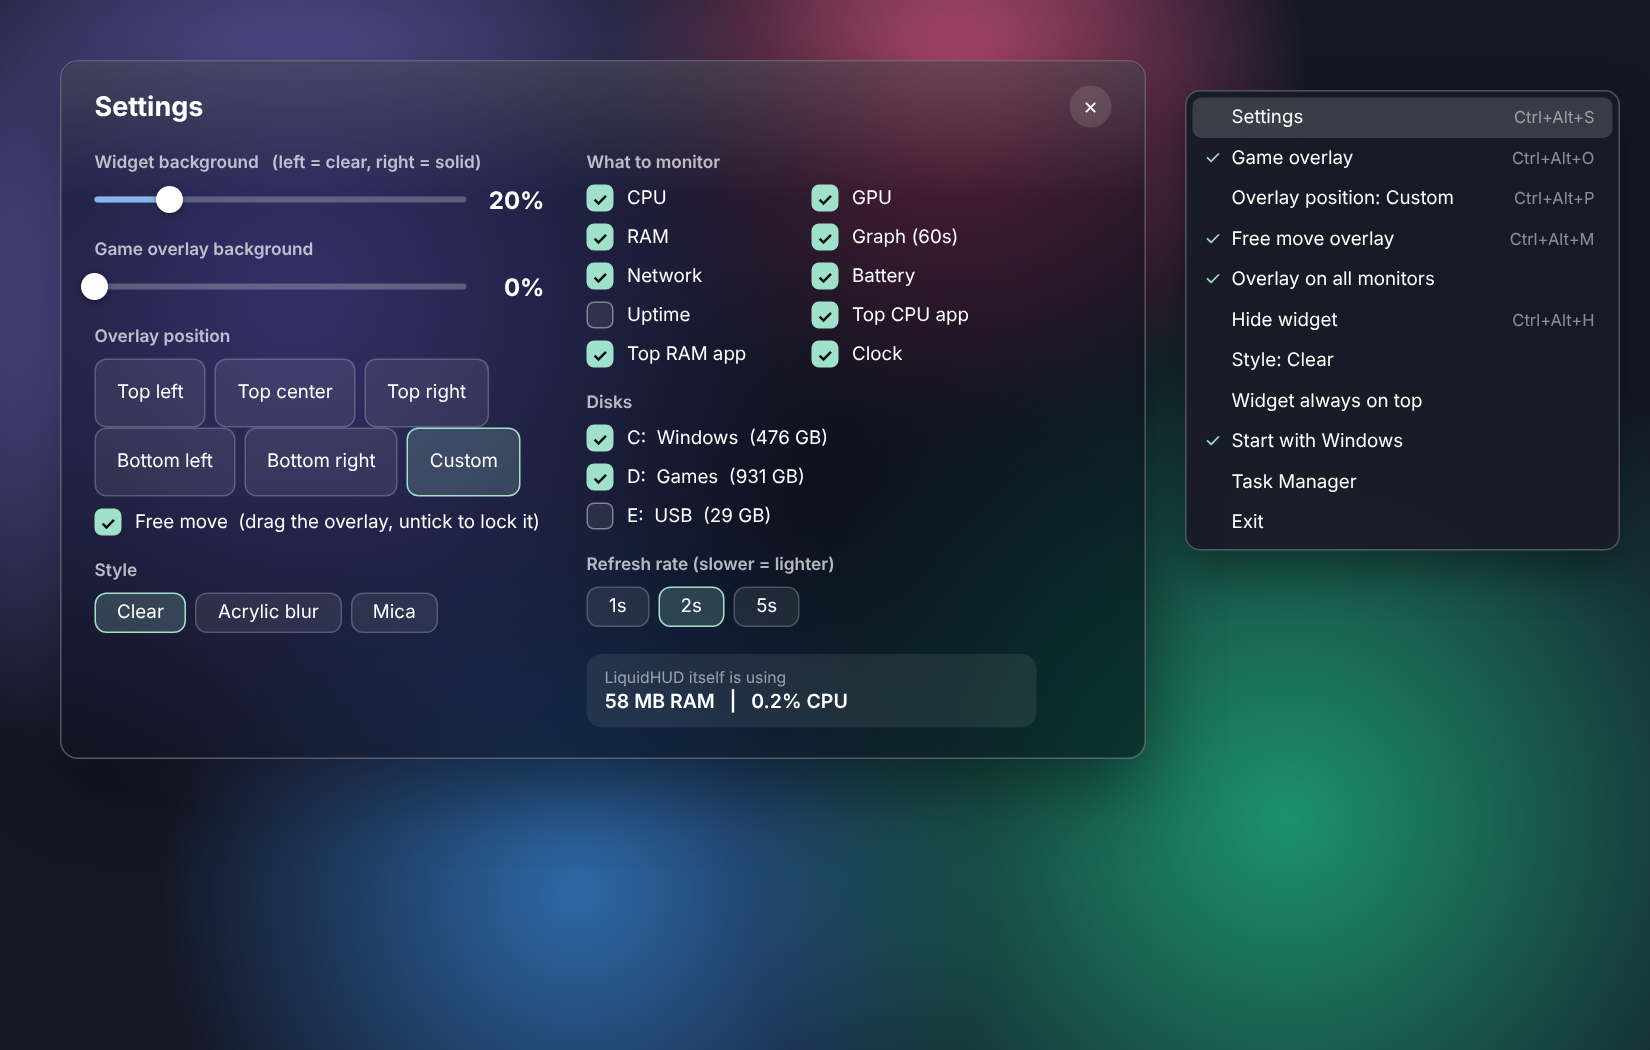
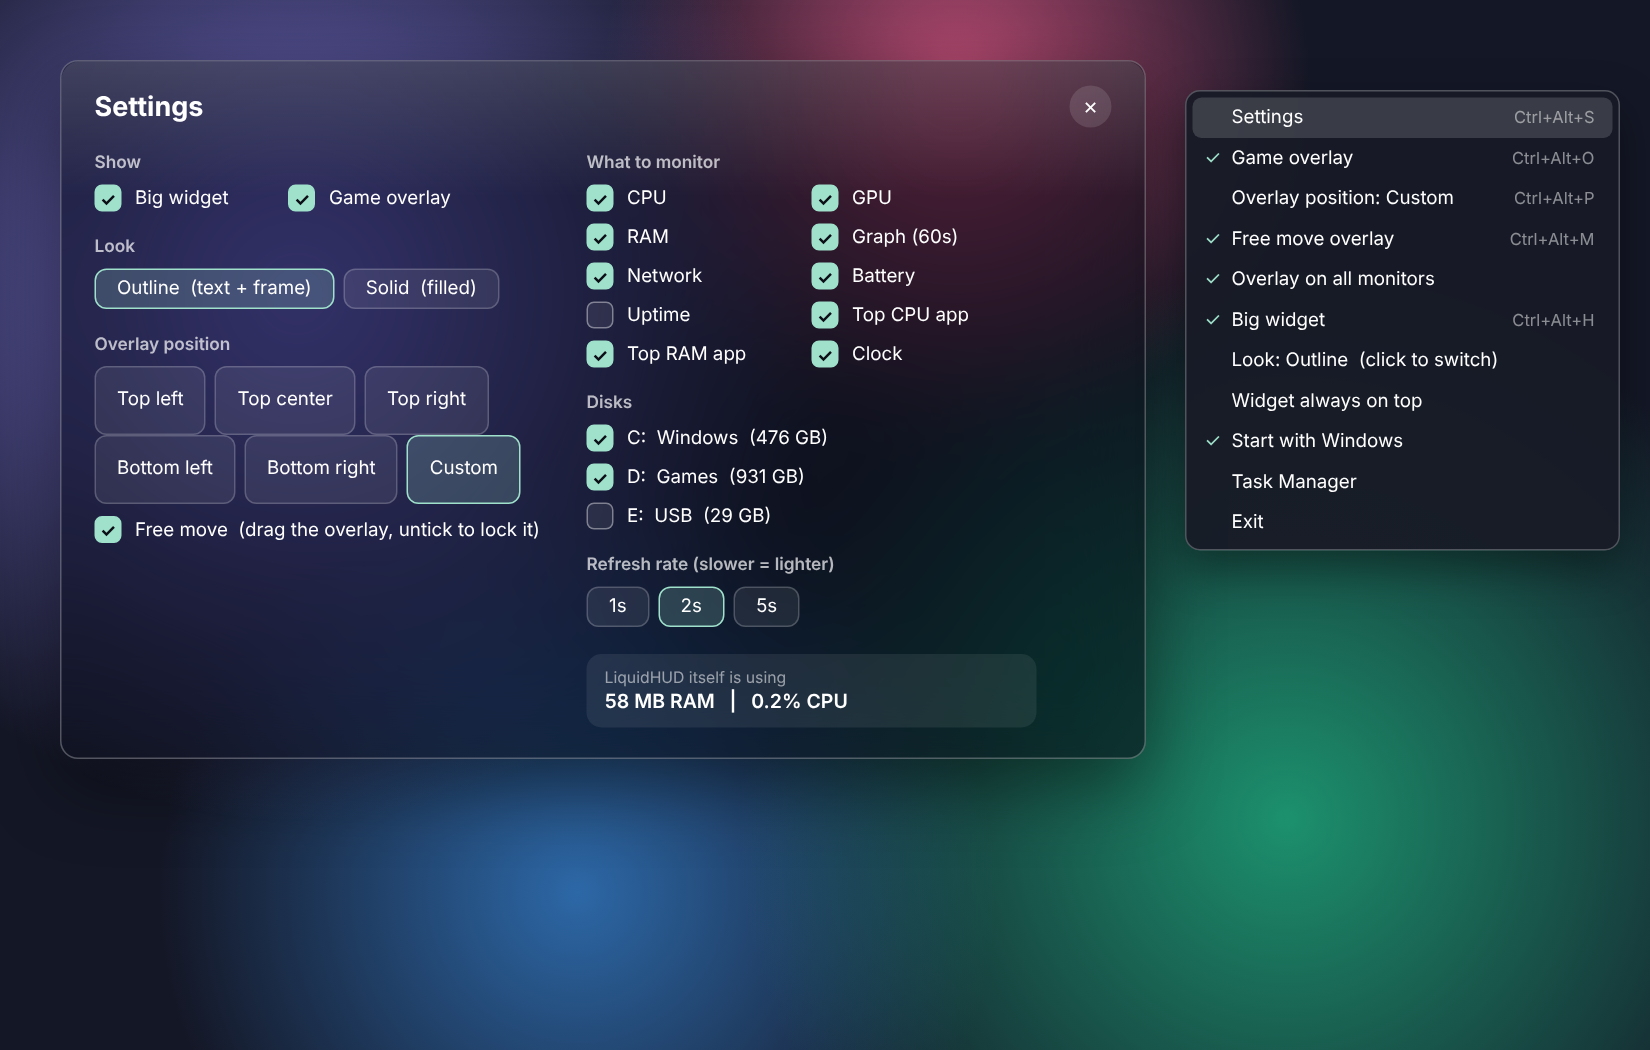
Docs: README and preview images for v7
- New images: Outline vs Solid looks, overlay free-moved out of the
  browser tab strip, Settings with Show / Look
- Removed opacity/style docs, added changelog linking issues #1-#7

Claude-Session: https://claude.ai/code/session_01RP7FEh2wzL7y17a24F9dcJ

Changed region(s): [[0.0309, 0.3657, 0.34, 0.6095], [0.0309, 0.1524, 0.34, 0.3352], [0.7418, 0.2743, 0.8964, 0.3657]]

diff --git a/README.md b/README.md
@@ -1,11 +1,11 @@
 # LiquidHUD
 
-**A glass-style system monitor widget and game overlay for Windows, built from scratch with nothing but PowerShell and WPF.**
+**A see-through system monitor widget and game overlay for Windows, built from scratch with nothing but PowerShell and WPF.**
 No Rainmeter, no HWiNFO, no installer, no admin rights. One `.ps1` file.
 
-![LiquidHUD on the desktop: glass widget plus the overlay bar in the top-right corner](docs/images/hero.png)
+![LiquidHUD on the desktop: widget and overlay bar in the Outline look](docs/images/hero.png)
 
-> Images in this README are rendered previews of the UI. Your glass will blur whatever wallpaper you have.
+> Images in this README are rendered previews of the UI.
 
 ---
 
@@ -15,22 +15,22 @@ No Rainmeter, no HWiNFO, no installer, no admin rights. One `.ps1` file.
 |---|---|
 | **Live stats** | CPU, GPU, RAM, **every disk in your PC**, network up/down, battery, uptime, top CPU app, top RAM app, clock |
 | **60-second graph** | CPU and GPU history |
-| **Clear or glass** | *Clear* gives real see-through transparency down to 0 %. *Acrylic* and *Mica* give the Windows 11 blur |
+| **Two looks** | **Outline** (text + frame, see straight through) or **Solid** (filled + frame), for both the widget and the overlay |
+| **Pick what's on screen** | Big widget, game overlay, or both |
 | **Game overlay** | Thin click-through bar that stays on top of every app, on every monitor |
 | **Global hotkeys** | Work while you're in a game |
-| **Background sliders** | One for the widget, one for the overlay. At 0 % the widget keeps the text plus a faint ghost of its box, and the overlay keeps only the text, with a shadow so it stays readable |
 | **Pin or free-move the overlay** | Pin it to any corner or the top center, or drag it anywhere and lock it there |
 | **Pick your metrics** | Tick what you want to see. Unticked metrics aren't collected at all |
 | **Lightweight** | Runs at BelowNormal priority with a 2 s refresh and periodic memory trim |
 | **Status pill** | Shows `chill` below 40 % CPU, `busy` from 40–85 %, and `hot!` above 85 % (numbers also turn red) |
 
-<p align="center"><img src="docs/images/widget.png" width="300" alt="Widget with CPU at 91% showing the hot! status"></p>
+![Outline look vs Solid look, widget and overlay](docs/images/looks.png)
 
 ---
 
 ## Requirements
 
-- **Windows 10 or 11.** Windows 11 22H2 or newer gets the real blur. Older versions get a dark glass look without blur.
+- **Windows 10 or 11.**
 - **Windows PowerShell 5.1.** It's already built into Windows, so you don't need to install anything.
 
 ---
@@ -95,17 +95,15 @@ powershell -NoProfile -STA -ExecutionPolicy Bypass -File .\LiquidHUD.ps1
 
 | Setting | What it does |
 |---|---|
-| **Widget background** | 0 % keeps the text and a faint outline of the box. Slide right and the box fades in until it's solid at 100 % |
-| **Game overlay background** | 0 % is text only, 100 % is a solid bar |
+| **Show** | Tick **Big widget** and/or **Game overlay**. If both are off, press `Ctrl+Alt+S` to come back |
+| **Look** | **Outline**: text and a frame only, you see straight through to what's behind. **Solid**: text on a fully coloured background with a frame |
 | **Overlay position** | Top left, Top center, Top right, Bottom left, Bottom right, or Custom (where you last dropped it) |
 | **Free move** | Tick it, then drag the overlay anywhere (it gets a dashed outline). Untick it and the overlay locks in place and goes back to click-through, so it never blocks what's behind it |
 | **Disks** | Every ready fixed or removable drive is listed with its label and size. Tick the ones you want on the widget. New drives show up the next time you open Settings |
-| **Style** | **Clear** (default) gives real transparency. **Acrylic blur** and **Mica** give the Windows 11 frosted glass. Blur always keeps some grey tint, so use Clear if you want it fully see-through |
 | **What to monitor** | Tick a metric to show and collect it. Untick it to hide it and stop collecting it |
 | **Refresh rate** | 1 s, 2 s or 5 s. Slower uses less CPU |
 | **LiquidHUD itself is using** | Live RAM and CPU used by the widget itself |
 
-![Clear style with the background at 0%, 45% and 100%](docs/images/opacity.png)
 
 Settings are saved to `%APPDATA%\LiquidHUD\settings.json`.
 
@@ -113,12 +111,13 @@ Settings are saved to `%APPDATA%\LiquidHUD\settings.json`.
 
 ## Game overlay
 
-![Overlay bar on top of a game](docs/images/overlay.png)
+![Outline overlay free-moved under the browser's address bar](docs/images/browser.png)
 
 1. Press **`Ctrl+Alt+O`** to turn the overlay on.
 2. Press **`Ctrl+Alt+P`** to cycle its pinned position: top left, top center, top right, bottom left, bottom right, custom.
    - **Or put it anywhere:** press **`Ctrl+Alt+M`** (or tick **Free move** in Settings), drag the bar where you want it, then press `Ctrl+Alt+M` again to lock it. Its spot is saved as a fraction of the screen, so it lands in the same place on every monitor.
-3. Press **`Ctrl+Alt+H`** to hide the big widget so only the overlay stays.
+3. Press **`Ctrl+Alt+H`** to turn the big widget off so only the overlay stays (or untick **Big widget** in Settings).
+4. If the bar sits over something you need to see, like browser tabs, use the **Outline** look and/or **Free move** it out of the way.
 
 When it's locked, the overlay is **click-through**: your mouse goes straight to the game, and it never steals focus or shows up in Alt+Tab.
 
@@ -136,7 +135,7 @@ When it's locked, the overlay is **click-through**: your mouse goes straight to 
 | `Ctrl+Alt+O` | Toggle game overlay |
 | `Ctrl+Alt+P` | Cycle overlay position |
 | `Ctrl+Alt+M` | Free move overlay on/off (drag it, then press again to lock) |
-| `Ctrl+Alt+H` | Hide / show widget |
+| `Ctrl+Alt+H` | Big widget on/off |
 | Double-click widget | Open Task Manager |
 | Right-click widget | Menu |
 
@@ -150,7 +149,7 @@ When it's locked, the overlay is **click-through**: your mouse goes straight to 
 |  BelowNormal priority        |  ---------------------->  |  DispatcherTimer        |
 |                              |                           |                         |
 |  PerformanceCounter (CPU,GPU)|                           |  Widget window          |
-|  ComputerInfo (RAM)          |                           |   (Clear / Acrylic)     |
+|  ComputerInfo (RAM)          |                           |   (Outline / Solid)     |
 |  DriveInfo (all disks)       |                           |  Overlay window(s)      |
 |  NetworkInterface (net)      |                           |   (layered, click-thru) |
 |  PowerStatus (battery)       |                           |  Settings window        |
@@ -158,8 +157,7 @@ When it's locked, the overlay is **click-through**: your mouse goes straight to 
 +------------------------------+                           +-------------------------+
 ```
 
-- **Clear style:** a per-pixel-alpha (layered) WPF window, so the background can fade all the way to 0 %. It stays at 1 % alpha so you can still drag it.
-- **Acrylic / Mica style:** `DwmSetWindowAttribute` with `DWMWA_SYSTEMBACKDROP_TYPE` (Acrylic = 3, Mica = 2), rounded corners and dark mode. Switching style rebuilds the window on the fly.
+- **Windows:** per-pixel-alpha (layered) WPF windows. In the Outline look the widget keeps a 1 % fill so you can still grab it and drag it, and the text gets a soft shadow so it stays readable on any wallpaper.
 - **Overlay:** a layered window with the extended styles `WS_EX_TRANSPARENT | WS_EX_TOOLWINDOW | WS_EX_NOACTIVATE`. LiquidHUD calls `SetWindowPos(HWND_TOPMOST)` every tick so the overlay stays on top.
 - **Hotkeys:** `RegisterHotKey` on a hidden message window.
 - **Low cost:**
@@ -186,10 +184,9 @@ These are estimates. Open **Settings** to see the live numbers on your machine.
 | Problem | Fix |
 |---|---|
 | **Nothing happens** when I double-click the `.bat` | Run Step 3 (Unblock). Then try the manual command from Step 4 in a PowerShell window so you can see any error |
-| **I want to quit, but the widget is hidden** | Press `Ctrl+Alt+H` to show it, then right-click and choose **Exit**. Or open Task Manager and end **Windows PowerShell** |
-| **I want blur, not clear** | Open Settings and set **Style** to **Acrylic blur** or **Mica**. This needs Windows 11 22H2 or newer, with **Settings → Personalization → Colors → Transparency effects** turned **On** |
-| **The widget looks grey when I lower the slider** | That's the Windows blur tint in Acrylic or Mica style. Switch **Style** to **Clear** |
+| **I want to quit, but nothing is on screen** | Press `Ctrl+Alt+S` for Settings, or `Ctrl+Alt+H` to show the widget, then right-click and choose **Exit**. Or open Task Manager and end **Windows PowerShell** |
 | **GPU shows `n/a`** | Your GPU driver doesn't expose the `GPU Engine` counters. Update your graphics driver |
+| **The overlay hides tabs or buttons behind it** | Switch **Look** to **Outline**, or turn on **Free move** (`Ctrl+Alt+M`) and drag it somewhere empty |
 | **Overlay not visible in a game** | Switch the game to Borderless or Windowed Fullscreen |
 | **The overlay is in the wrong spot on a second monitor** | Mixed DPI scaling across monitors can offset it. Untick **Overlay on all monitors** to keep it on the main screen |
 | **I want to reset everything** | Delete `%APPDATA%\LiquidHUD\settings.json` |
@@ -214,3 +211,14 @@ These are estimates. Open **Settings** to see the live numbers on your machine.
 ## License
 
 [MIT](LICENSE). Do whatever you like with it.
+
+---
+
+## Changelog
+
+| Version | What changed | Issues |
+|---|---|---|
+| **v7** | Clear rendering only: Acrylic, Mica and the background sliders are removed. Added the **Outline / Solid** look and **Show** toggles for the widget and the overlay | #5, #6, #7 |
+| v6 | Every disk detected with a tick box each. Overlay can be pinned or free-moved. Faint box kept at 0 % | #2, #3, #4 |
+| v5 | Clear style with real transparency | #1 |
+| v4 | Settings window, metric picker, refresh rate, resource savings | |
